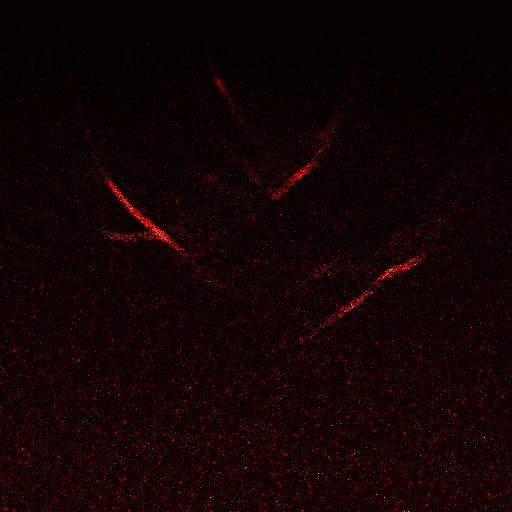
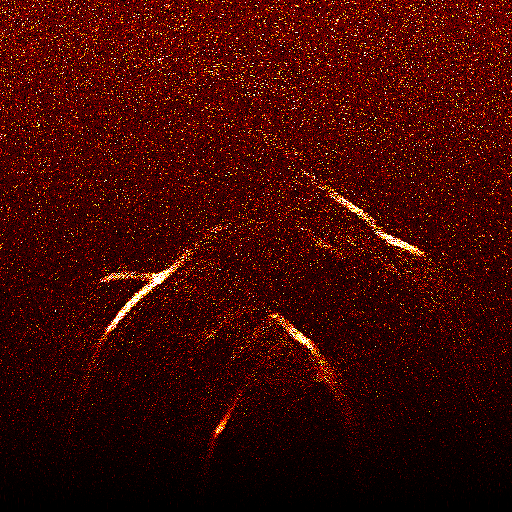
Add clean reconstruction galleries exported from MAT outputs.
Replace figure screenshots with hot-colormap maps and a comparison montage on Overview and Reconstruction pages.

diff --git a/docs/index.html b/docs/index.html
@@ -118,26 +118,30 @@
 
     <h2>Sample reconstructions</h2>
     <p class="muted">Linear-array reconstructions of the Example1 vessel phantom — see the <a href="reconstruction.html">Reconstruction</a> page for the full set.</p>
+    <figure class="pipeline-figure">
+      <img src="assets/recon/comparison_montage.png" alt="Comparison of phantom, TR, UBP, DMAS, DAS, and FBP reconstructions" width="932" height="652" loading="lazy" />
+    </figure>
+    <p class="figure-caption">Same acquisition, different algorithms (linear array).</p>
     <div class="gallery">
       <figure>
         <img src="assets/recon/phantom_example1.png" alt="Example1 vessel phantom" width="512" height="512" loading="lazy" />
         <figcaption>Phantom</figcaption>
       </figure>
       <figure>
-        <img src="assets/recon/dmas.png" alt="DMAS reconstruction" width="512" height="512" loading="lazy" />
-        <figcaption>DMAS</figcaption>
-      </figure>
-      <figure>
         <img src="assets/recon/tr.png" alt="Time-reversal reconstruction" width="512" height="512" loading="lazy" />
         <figcaption>TR</figcaption>
       </figure>
       <figure>
-        <img src="assets/recon/ubp.png" alt="UBP reconstruction" width="512" height="512" loading="lazy" />
-        <figcaption>UBP</figcaption>
+        <img src="assets/recon/dmas.png" alt="DMAS reconstruction" width="512" height="512" loading="lazy" />
+        <figcaption>DMAS</figcaption>
       </figure>
       <figure>
-        <img src="assets/recon/ds_dmas.png" alt="DS-DMAS reconstruction" width="512" height="512" loading="lazy" />
-        <figcaption>DS-DMAS</figcaption>
+        <img src="assets/recon/das.png" alt="DAS reconstruction" width="512" height="512" loading="lazy" />
+        <figcaption>DAS</figcaption>
+      </figure>
+      <figure>
+        <img src="assets/recon/ubp.png" alt="UBP reconstruction" width="512" height="512" loading="lazy" />
+        <figcaption>UBP</figcaption>
       </figure>
       <figure>
         <img src="assets/recon/fbp.png" alt="FBP reconstruction" width="512" height="512" loading="lazy" />

diff --git a/docs/reconstruction.html b/docs/reconstruction.html
@@ -57,6 +57,10 @@
 
     <h2>Example reconstructions</h2>
     <p class="muted">Same linear-array acquisition of <code>data/Example1.bmp</code>, reconstructed with different algorithms.</p>
+    <figure class="pipeline-figure">
+      <img src="assets/recon/comparison_montage.png" alt="Side-by-side reconstruction comparison montage" width="932" height="652" loading="lazy" />
+    </figure>
+    <p class="figure-caption">Overview: phantom vs TR, UBP, DMAS, DAS, FBP.</p>
     <div class="gallery gallery-4">
       <figure>
         <img src="assets/recon/phantom_example1.png" alt="Example1 vessel phantom" width="512" height="512" loading="lazy" />

diff --git a/docs/_gen_docs.py b/docs/_gen_docs.py
@@ -151,26 +151,30 @@ PAGES["index.html"] = (
 
     <h2>Sample reconstructions</h2>
     <p class="muted">Linear-array reconstructions of the Example1 vessel phantom — see the <a href="reconstruction.html">Reconstruction</a> page for the full set.</p>
+    <figure class="pipeline-figure">
+      <img src="assets/recon/comparison_montage.png" alt="Comparison of phantom, TR, UBP, DMAS, DAS, and FBP reconstructions" width="932" height="652" loading="lazy" />
+    </figure>
+    <p class="figure-caption">Same acquisition, different algorithms (linear array).</p>
     <div class="gallery">
       <figure>
         <img src="assets/recon/phantom_example1.png" alt="Example1 vessel phantom" width="512" height="512" loading="lazy" />
         <figcaption>Phantom</figcaption>
       </figure>
       <figure>
-        <img src="assets/recon/dmas.png" alt="DMAS reconstruction" width="512" height="512" loading="lazy" />
-        <figcaption>DMAS</figcaption>
-      </figure>
-      <figure>
         <img src="assets/recon/tr.png" alt="Time-reversal reconstruction" width="512" height="512" loading="lazy" />
         <figcaption>TR</figcaption>
       </figure>
       <figure>
-        <img src="assets/recon/ubp.png" alt="UBP reconstruction" width="512" height="512" loading="lazy" />
-        <figcaption>UBP</figcaption>
+        <img src="assets/recon/dmas.png" alt="DMAS reconstruction" width="512" height="512" loading="lazy" />
+        <figcaption>DMAS</figcaption>
       </figure>
       <figure>
-        <img src="assets/recon/ds_dmas.png" alt="DS-DMAS reconstruction" width="512" height="512" loading="lazy" />
-        <figcaption>DS-DMAS</figcaption>
+        <img src="assets/recon/das.png" alt="DAS reconstruction" width="512" height="512" loading="lazy" />
+        <figcaption>DAS</figcaption>
+      </figure>
+      <figure>
+        <img src="assets/recon/ubp.png" alt="UBP reconstruction" width="512" height="512" loading="lazy" />
+        <figcaption>UBP</figcaption>
       </figure>
       <figure>
         <img src="assets/recon/fbp.png" alt="FBP reconstruction" width="512" height="512" loading="lazy" />
@@ -429,6 +433,10 @@ PAGES["reconstruction.html"] = (
 
     <h2>Example reconstructions</h2>
     <p class="muted">Same linear-array acquisition of <code>data/Example1.bmp</code>, reconstructed with different algorithms.</p>
+    <figure class="pipeline-figure">
+      <img src="assets/recon/comparison_montage.png" alt="Side-by-side reconstruction comparison montage" width="932" height="652" loading="lazy" />
+    </figure>
+    <p class="figure-caption">Overview: phantom vs TR, UBP, DMAS, DAS, FBP.</p>
     <div class="gallery gallery-4">
       <figure>
         <img src="assets/recon/phantom_example1.png" alt="Example1 vessel phantom" width="512" height="512" loading="lazy" />
